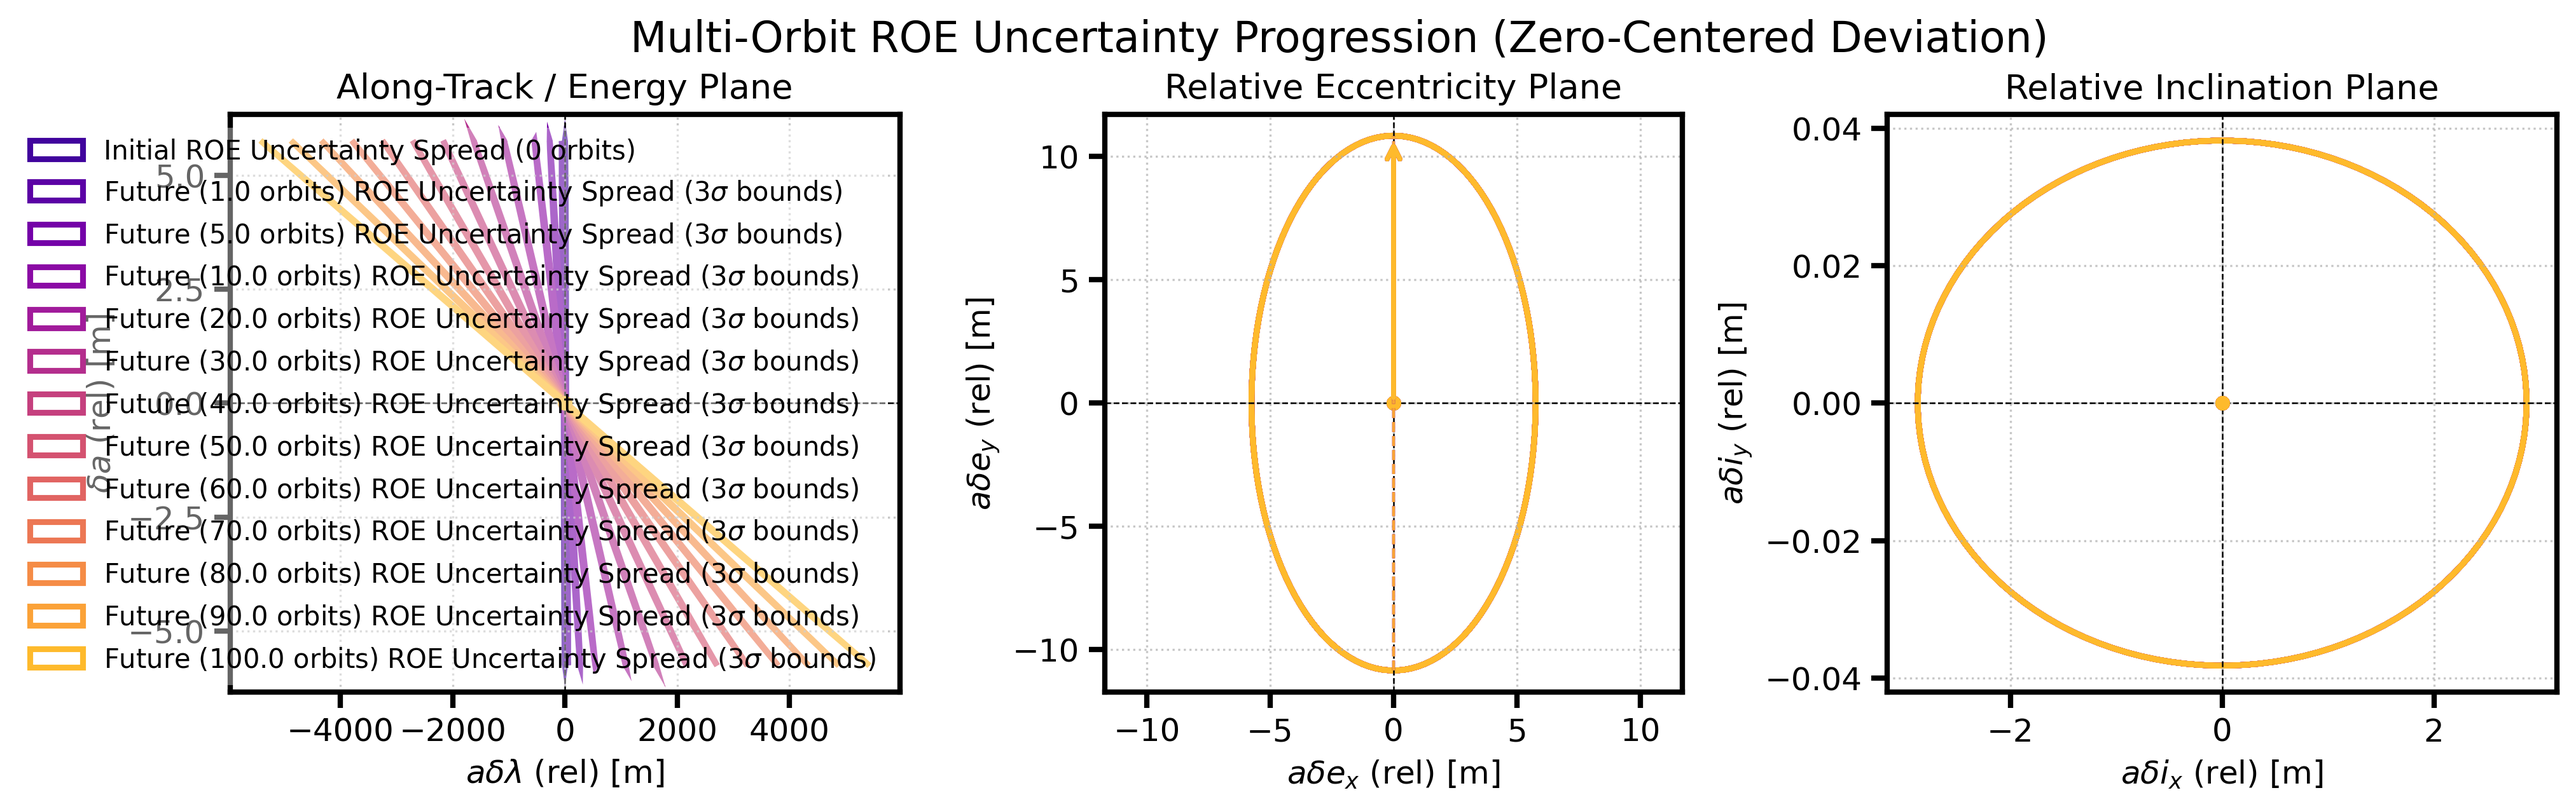
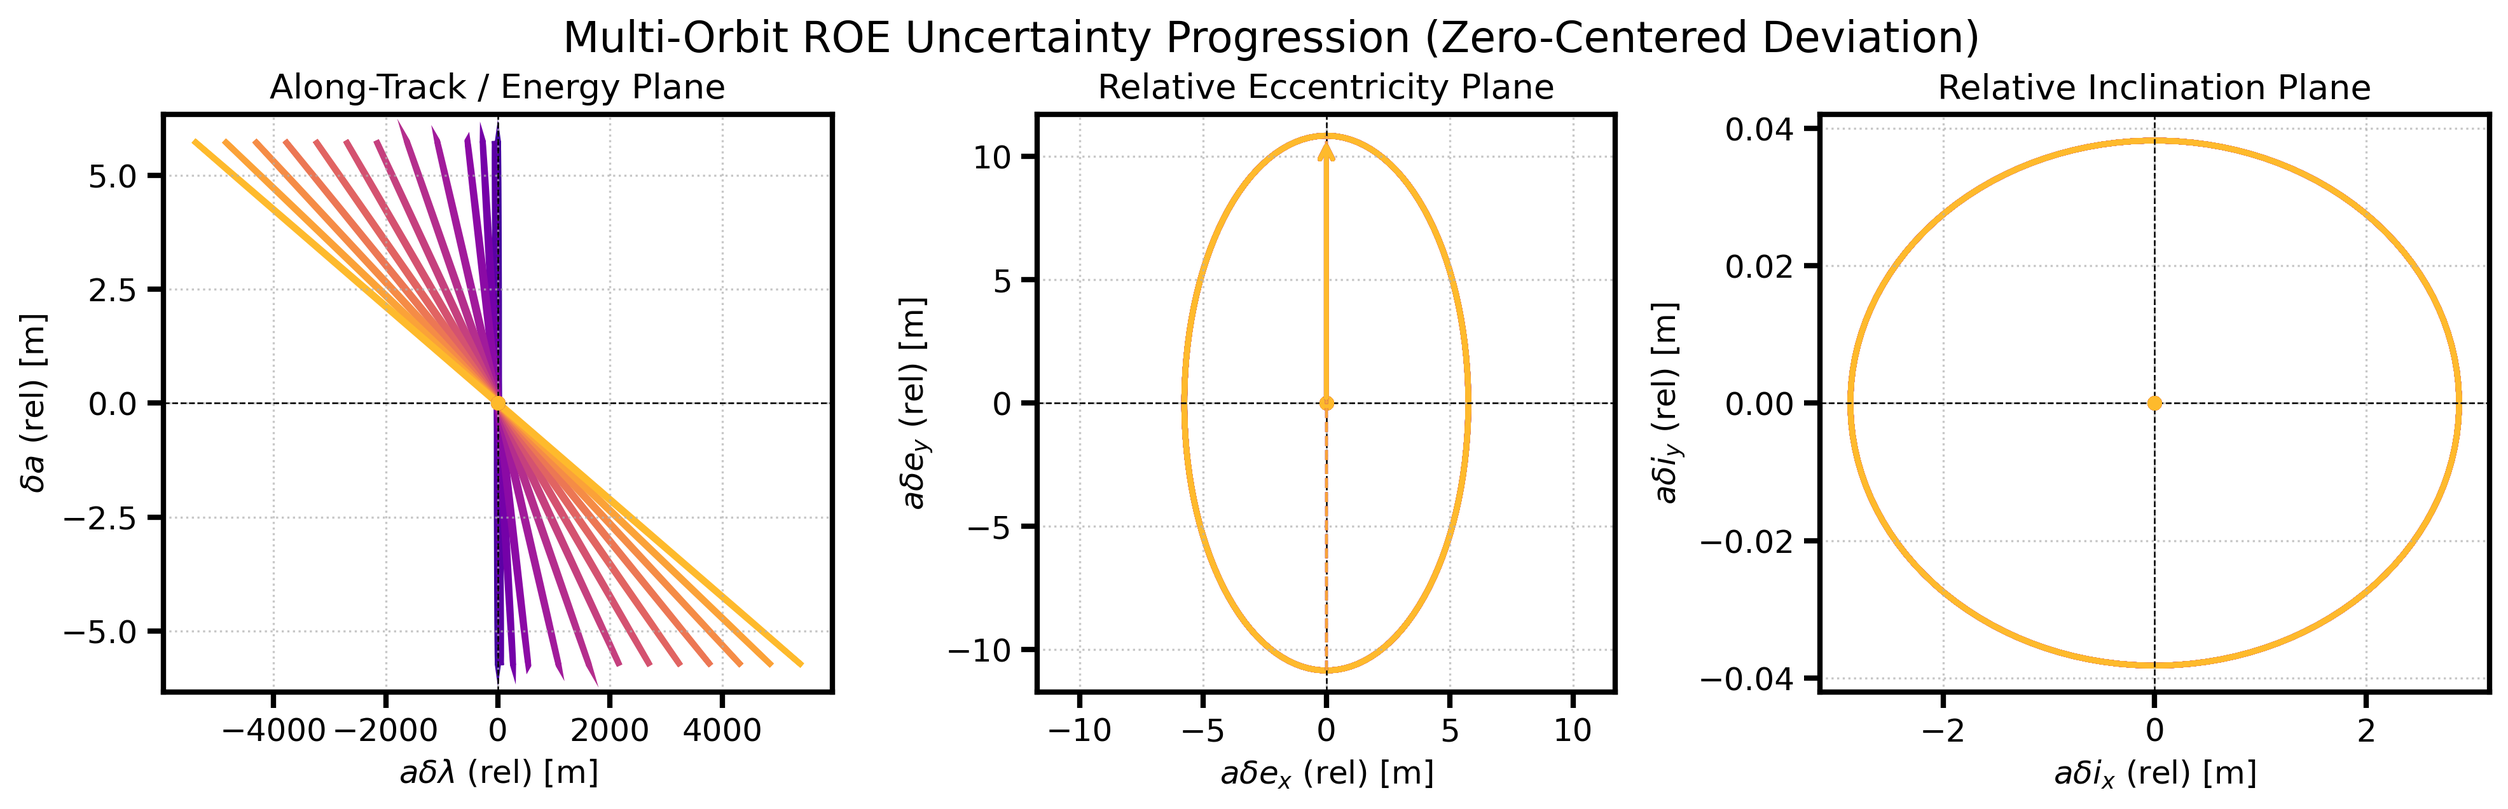
new pictures and lincov section

diff --git a/index.html b/index.html
@@ -107,49 +107,78 @@ window.Quarto = {
 </header>
 
 
-<section id="introduction" class="level2">
-<h2 class="anchored" data-anchor-id="introduction">Introduction</h2>
-<p>Linear covariance propagation is a method for analyzing the evolution of uncertainty in a state vector over time. This blog post aims to demonstrate the importance of choosing the correct state representation for linear covariance propagation in environments involving relative spacecraft dynamics. Specifically, we will study two state representations: the first using Cartesian coordinates represented in the Radial, In-Track, Cross-Track (RIC) frame propagated with the Clohessy-Wiltshire (CW) linearized equations of motion, and the second taking an orbital parameterization approach using Relative Orbital Elements (ROEs).</p>
-<p>We will validate these methods through a Monte Carlo simulation using a nonlinear two-body dynamics propagator. It is important to perform these kinds of studies to validate spacecraft safety during a mission.</p>
-</section>
+<p>Linear covariance propagation is a method for analyzing the evolution of uncertainty in a state vector over time. In this post, we will explore the importance of choosing the correct state representation for linear covariance propagation in environments involving relative spacecraft dynamics. Specifically, we will study two state representations: the first using Cartesian coordinates represented in the Radial, In-Track, Cross-Track (RIC) frame propagated with the Clohessy-Wiltshire (CW) linearized equations of motion, and the second taking an orbital parameterization approach using Relative Orbital Elements (ROEs).</p>
+<p>We will compare these methods through a Monte Carlo simulation using a nonlinear two-body dynamics propagator. It is important to perform these kinds of studies to ensure spacecraft safety during close-proximity missions, as well as to assess long-term uncertainty growth.</p>
 <section id="linear-covariance-propagation" class="level2">
 <h2 class="anchored" data-anchor-id="linear-covariance-propagation">Linear Covariance Propagation</h2>
+<p>Lets look into how linear covariance propagation works and the benefits of using it. In state estimation, two important quantities are the mean, <span class="math inline">\(\mathbf{x}\)</span>, and the covariance, <span class="math inline">\(\mathbf{P}\)</span>. The covariance represents the uncertainty in the state estimate. Imagine a bell curve, representing a 1-dimensional distribution; the covariance would represent how “wide” the bell curve is, where a larger covariance corelates to a “wider” bell curve.</p>
+<p>With this in mind, lets look at a scenario involving two satellites in formation flight. Let’s call the satellite being followed the “Chief” and the following satellite the “Deputy”. In this scenario we will assume the state of the Chief satellite is perfectly known, while the Deputy has some covariance associated with its state estimate.</p>
+<div id="fig-formation" class="quarto-float quarto-figure quarto-figure-center anchored" data-fig-align="center">
+<figure class="quarto-float quarto-float-fig figure">
+<div aria-describedby="fig-formation-caption-0ceaefa1-69ba-4598-a22c-09a6ac19f8ca">
+<img src="images/formation_flight.jpg" class="img-fluid quarto-figure quarto-figure-center figure-img" style="width:80.0%">
+</div>
+<figcaption class="quarto-float-caption-bottom quarto-float-caption quarto-float-fig" id="fig-formation-caption-0ceaefa1-69ba-4598-a22c-09a6ac19f8ca">
+Figure&nbsp;1: Chief-Deputy formation flight geometry. <em>Diagram generated with Gemini.</em>
+</figcaption>
+</figure>
+</div>
+<p>As the two satellites progress in their orbits, the covariance can also be propagated forward to show the uncertainty in the deputies state over time using linear covariance propagation. <a href="#eq-lincov" class="quarto-xref">Equation&nbsp;1</a> is the equation used for performing this propagation.</p>
+<p><span id="eq-lincov"><span class="math display">\[
+\mathbf{P}(t) = \mathbf{\Phi}(t,t_0) \mathbf{P}_0 \mathbf{\Phi}(t,t_0)^T + \mathbf{Q}
+\tag{1}\]</span></span></p>
+<p>In this equation <span class="math inline">\(\mathbf{\Phi}\)</span> represents the state transition matrix, which uses linearized dynamics to propagate the covariance from <span class="math inline">\(t_0\)</span> to <span class="math inline">\(t\)</span>. <span class="math inline">\(Q\)</span> represents process noise to account for unmodeled perturbations, though in our scenario this will be zero because we will be modeling the system using two-body equations of motion with no perturbations. <a href="#eq-lincov" class="quarto-xref">Equation&nbsp;1</a> will do a good job at propagating the covariance given that the uncertainty remains gaussian and that the linearized dynamics contained in <span class="math inline">\(\mathbf{\Phi}\)</span> accurately represents the true system dynamics.</p>
 </section>
 <section id="coordinate-geometry" class="level2">
 <h2 class="anchored" data-anchor-id="coordinate-geometry">Coordinate Geometry</h2>
-</section>
-<section id="clohessy-wiltshire-equations" class="level1">
-<h1>Clohessy Wiltshire Equations</h1>
-<p>The CW (Clohessy Wiltshire) equations assumes the Chief satellite is in a circular orbit. These equations are defined in the the RIC (Radial, In-Track, Cross-Track) frame which is fixed to the Chief satellite. The radial unit vector is defined by <a href="#eq-Radial" class="quarto-xref">Equation&nbsp;1</a>.</p>
+<section id="clohessy-wiltshire-equations" class="level3">
+<h3 class="anchored" data-anchor-id="clohessy-wiltshire-equations">Clohessy Wiltshire Equations</h3>
+<p>The CW (Clohessy Wiltshire) equations assume the Chief satellite is in a circular orbit. These equations are defined in the RIC (Radial, In-Track, Cross-Track) frame which is fixed to the Chief satellite. The radial unit vector is defined by <a href="#eq-Radial" class="quarto-xref">Equation&nbsp;2</a>.</p>
 <p><span id="eq-Radial"><span class="math display">\[
 \hat{R} = \frac{\mathbf{r_c}}{||\mathbf{r_c}||}
-\tag{1}\]</span></span></p>
-<p>Where is the position vector of the satellite in the ECI frame, and the subscript c denotes the chief satellite. The Cross-Track unit vector is then defined in <a href="#eq-Cross" class="quarto-xref">Equation&nbsp;2</a>.</p>
+\tag{2}\]</span></span></p>
+<p>Where is the position vector of the satellite in the ECI frame, and the subscript c denotes the chief satellite. The Cross-Track unit vector is then defined in <a href="#eq-Cross" class="quarto-xref">Equation&nbsp;3</a>.</p>
 <p><span id="eq-Cross"><span class="math display">\[
   \hat{C} = \frac{\mathbf{r_c}\times\mathbf{v_c}}{||\mathbf{r_c}\times\mathbf{v_c}||}
-\tag{2}\]</span></span></p>
+\tag{3}\]</span></span></p>
 <p>Where is the satellites velocity vector in the ECI frame. With the Radial and Cross-Track directions defined, the In-Track direction is defined as</p>
 <p><span id="eq-IN"><span class="math display">\[
-  \hat{I} = \frac{\hat{C} \times \hat{R}}{||\hat{C} \times \hat{R}||}
-\tag{3}\]</span></span></p>
+  \hat{I} = \hat{C} \times \hat{R}
+\tag{4}\]</span></span></p>
 </section>
-<section id="relative-orbital-elements" class="level1">
-<h1>Relative Orbital Elements</h1>
+<section id="relative-orbital-elements" class="level3">
+<h3 class="anchored" data-anchor-id="relative-orbital-elements">Relative Orbital Elements</h3>
+</section>
+</section>
 <section id="simulation" class="level2">
 <h2 class="anchored" data-anchor-id="simulation">Simulation</h2>
+<section id="environment" class="level3">
+<h3 class="anchored" data-anchor-id="environment">Environment</h3>
+</section>
+<section id="monte-carlo-setup" class="level3">
+<h3 class="anchored" data-anchor-id="monte-carlo-setup">Monte Carlo setup</h3>
 </section>
 </section>
-<section id="setup" class="level1">
-<h1>Setup</h1>
 <section id="results" class="level2">
 <h2 class="anchored" data-anchor-id="results">Results</h2>
+<section id="why-cw-framework-breaks-down" class="level3">
+<h3 class="anchored" data-anchor-id="why-cw-framework-breaks-down">Why CW Framework Breaks Down</h3>
+</section>
 </section>
 <section id="takeaways" class="level2">
 <h2 class="anchored" data-anchor-id="takeaways">Takeaways</h2>
-</section>
-<section id="references" class="level2">
-<h2 class="anchored" data-anchor-id="references">References</h2>
-</section>
+<p>There</p>
+<p>is</p>
+<p>stuff</p>
+<p>here</p>
+<hr>
+<div style="color: #777; font-size: 0.9em; margin-top: 2rem; line-height: 1.7;">
+<ol type="1">
+<li>Maybeck, P. S. (1979). <em>Stochastic Models, Estimation, and Control</em> (Vol. 1). Academic Press.</li>
+<li>Carpenter, J. R., &amp; D’Souza, C. N. (2018). <em>Navigation Filter Best Practices</em>. NASA/TP-2018-219822.</li>
+<li>D’Amico, S. (2010). <em>Autonomous Formation Flying in Low Earth Orbit</em>. PhD Thesis, TU Delft.</li>
+</ol>
+</div>
 </section>
 
 </main>
